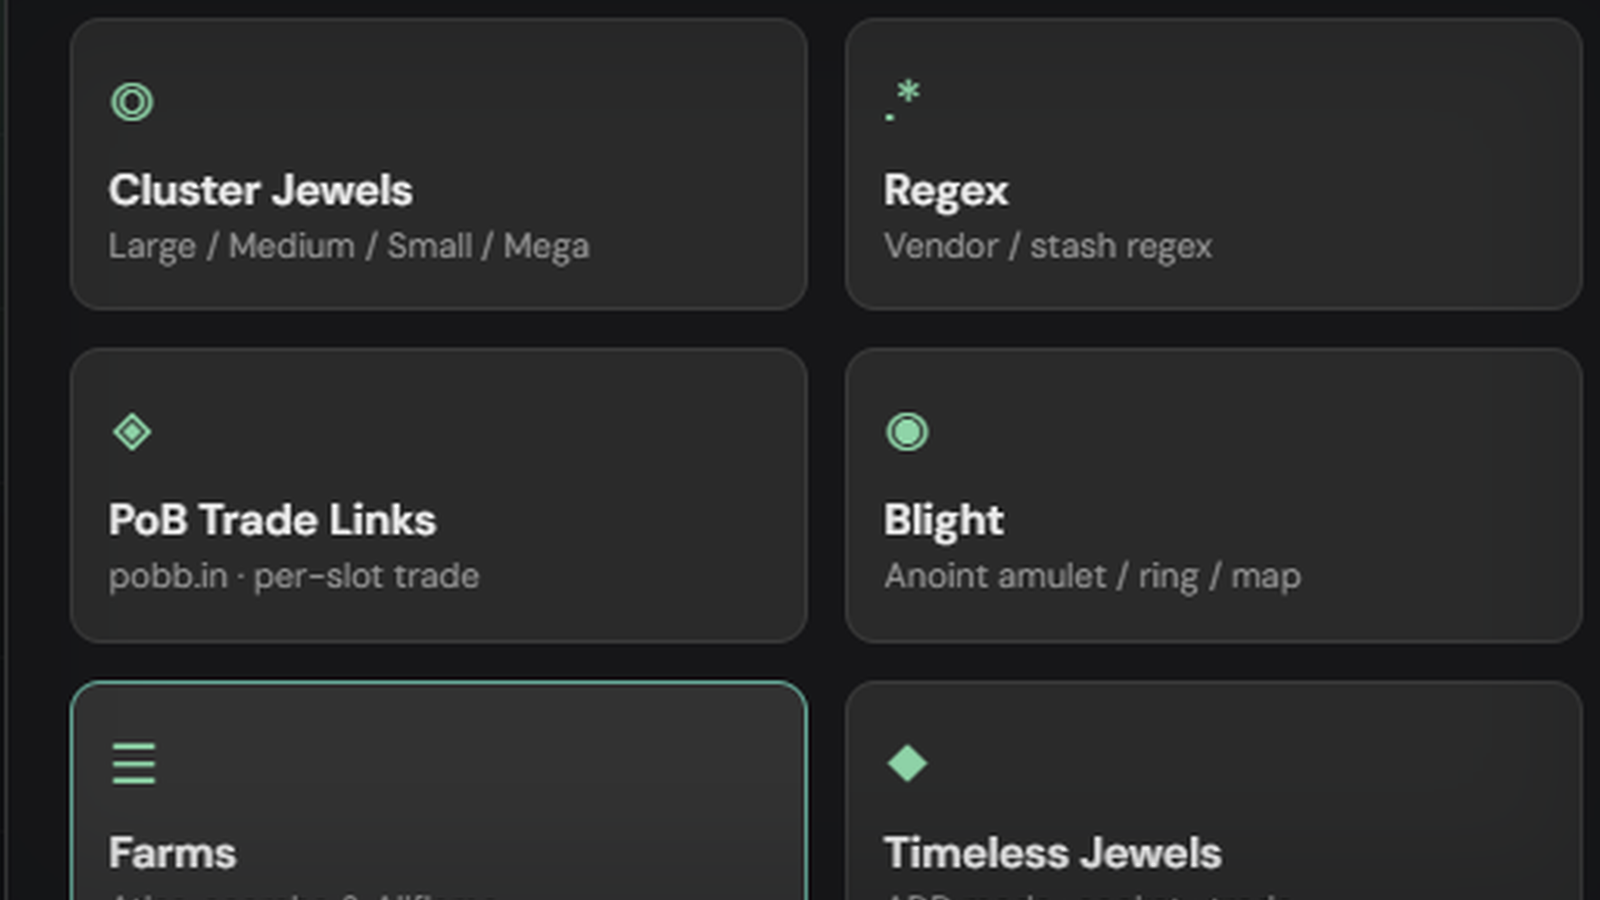
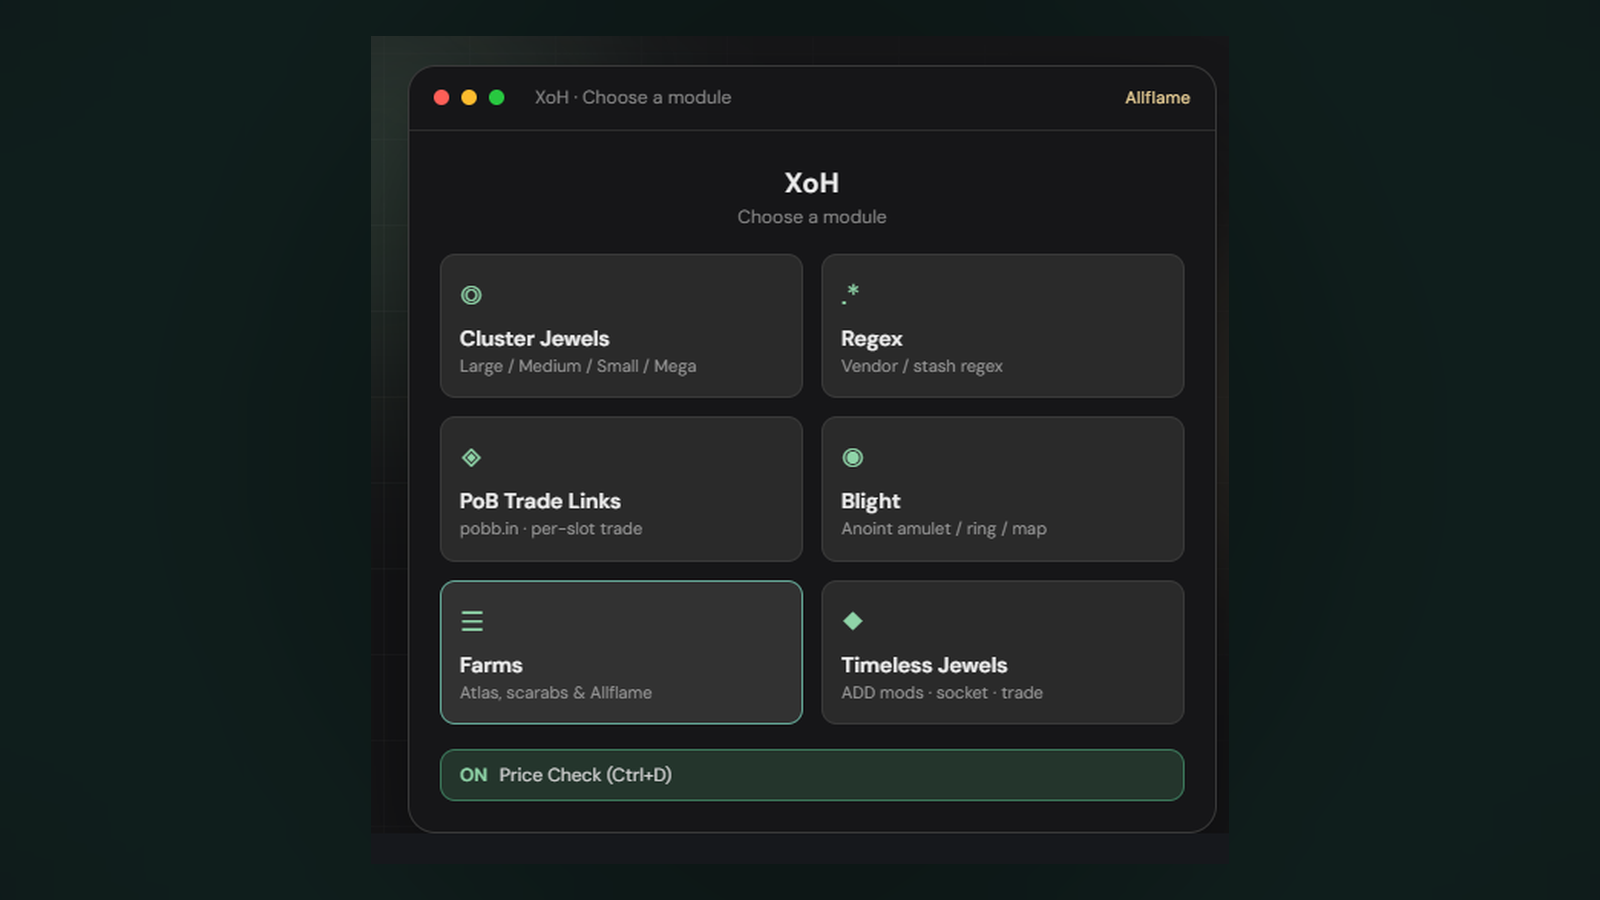
Ease XoH zoom and ship a horizontal HUD capture.
Show the full module window in a 16:9 frame instead of the extreme center crop.

diff --git a/src/data/content.ts b/src/data/content.ts
@@ -375,8 +375,8 @@ export const featured = [
     gallery: [
       {
         src: '/shots/xohub-hud.png',
-        en: 'XoH module picker — HUD filling the frame',
-        pt: 'Seletor de módulos do XoH — HUD preenchendo o quadro',
+        en: 'XoH module picker — horizontal HUD preview',
+        pt: 'Seletor de módulos do XoH — preview horizontal',
       },
     ],
     text: {

diff --git a/src/components/ShotCarousel.tsx b/src/components/ShotCarousel.tsx
@@ -30,7 +30,7 @@ export default function ShotCarousel({ shots, accent }: Props) {
           key={current.src}
           src={current.src}
           alt={caption}
-          className="h-full w-full scale-[1.04] object-cover object-center"
+          className="h-full w-full object-cover object-center"
         />
         <div
           className="pointer-events-none absolute inset-0"

diff --git a/scripts/make-xohub-hero-shot.py b/scripts/make-xohub-hero-shot.py
@@ -1,57 +1,75 @@
-"""Build a widescreen XoH shot that expands from the center into the frame."""
+"""Build a horizontal XoH shot with the full HUD visible (moderate zoom)."""
 
+from __future__ import annotations
+
+import base64
+import json
+from io import BytesIO
 from pathlib import Path
 
 from PIL import Image, ImageDraw, ImageFilter
 
 root = Path(r'C:\Users\XoD\Documents\www\Portfolio\public\shots')
-full = Image.open(root / 'xohub-full.png').convert('RGB')
+browser_log = Path(r'C:\Users\XoD\.cursor\browser-logs')
 
-# Tight crop of the floating module window in the 1920x1080 landing capture.
-left, top, right, bottom = 955, 120, 1510, 655
-card = full.crop((left, top, right, bottom))
+card: Image.Image | None = None
+captures = sorted(browser_log.glob('cdp-response-Page.captureScreenshot-*.json'), reverse=True)
+if captures:
+    payload = json.loads(captures[0].read_text(encoding='utf-8'))
+    b64 = payload.get('data')
+    if b64:
+        card = Image.open(BytesIO(base64.b64decode(b64))).convert('RGB')
+        print('using browser capture', captures[0].name, card.size)
 
-# Cover faint marketing placeholder if present near the bottom of the panel.
-draw_card = ImageDraw.Draw(card)
-draw_card.rectangle((0, card.height - 36, card.width, card.height), fill=(22, 24, 28))
+if card is None:
+    full = Image.open(root / 'xohub-full.png').convert('RGB')
+    card = full.crop((955, 120, 1510, 655))
+    print('using full-page crop', card.size)
+
+# Cover leftover placeholder / empty band under the window chrome.
+draw = ImageDraw.Draw(card)
+# Detect very dark bottom strip with faint caption and paint it out.
+px = card.load()
+cut = card.height
+for y in range(card.height - 1, int(card.height * 0.82), -1):
+    row = [px[x, y] for x in range(0, card.width, 6)]
+    # mint/green UI still has brighter pixels; caption band is almost flat dark
+    bright = sum(1 for r, g, b in row if r + g + b > 110)
+    green = sum(1 for r, g, b in row if g > 120 and g > r + 20)
+    if bright <= 3 and green == 0:
+        cut = y
+    else:
+        break
+if cut < card.height - 8:
+    draw.rectangle((0, cut, card.width, card.height), fill=(22, 24, 28))
+    print('covered bottom from', cut)
 
 out_w, out_h = 1600, 900
-canvas = Image.new('RGB', (out_w, out_h), (10, 12, 16))
+canvas = Image.new('RGB', (out_w, out_h), (12, 14, 18))
 
-# Soft mint glow from the center so the panel feels like it blooms outward.
-glow = Image.new('RGB', (out_w, out_h), (10, 12, 16))
+glow = Image.new('RGB', (out_w, out_h), (12, 14, 18))
 gdraw = ImageDraw.Draw(glow)
 cx, cy = out_w // 2, out_h // 2
-for radius, color in (
-    (900, (20, 48, 40)),
-    (560, (16, 36, 30)),
-    (280, (12, 24, 22)),
-):
+for radius, color in ((900, (18, 42, 36)), (520, (14, 30, 26))):
     gdraw.ellipse((cx - radius, cy - radius, cx + radius, cy + radius), fill=color)
 glow = glow.filter(ImageFilter.GaussianBlur(110))
-canvas = Image.blend(canvas, glow, 0.7)
+canvas = Image.blend(canvas, glow, 0.6)
 
-# Overscale so the HUD bleeds past the frame edges (starts center, expands out).
-scale = max(out_w / card.width, out_h / card.height) * 1.08
+# Fit entire HUD in landscape — readable, not cropped, not a tiny island.
+pad = 0.92
+scale = min(out_w / card.width, out_h / card.height) * pad
 new_w = int(card.width * scale)
 new_h = int(card.height * scale)
 hero = card.resize((new_w, new_h), Image.Resampling.LANCZOS)
+print('scale', round(scale, 2), 'hero', new_w, new_h)
 
 x = (out_w - new_w) // 2
-y = (out_h - new_h) // 2 - 10
+y = (out_h - new_h) // 2
 canvas.paste(hero, (x, y))
-
-# Light edge falloff only — keep the panel dominant.
-vignette = Image.new('L', (out_w, out_h), 255)
-vdraw = ImageDraw.Draw(vignette)
-# Darken only the far corners a little
-for inset, value in ((0, 210), (40, 235), (90, 250)):
-    vdraw.rectangle((inset, inset, out_w - inset, out_h - inset), outline=value, width=28)
-vignette = vignette.filter(ImageFilter.GaussianBlur(40))
-dark = Image.new('RGB', (out_w, out_h), (10, 12, 16))
-canvas = Image.composite(canvas, dark, vignette)
 
 out = root / 'xohub-hud.png'
 canvas.save(out, optimize=True)
 canvas.save(root / 'xohub.png', optimize=True)
-print('saved', out, canvas.size, 'scale', round(scale, 2), 'hero', new_w, new_h)
+# Keep a named horizontal capture too
+canvas.save(root / 'xohub-landscape.png', optimize=True)
+print('saved', out, canvas.size)
